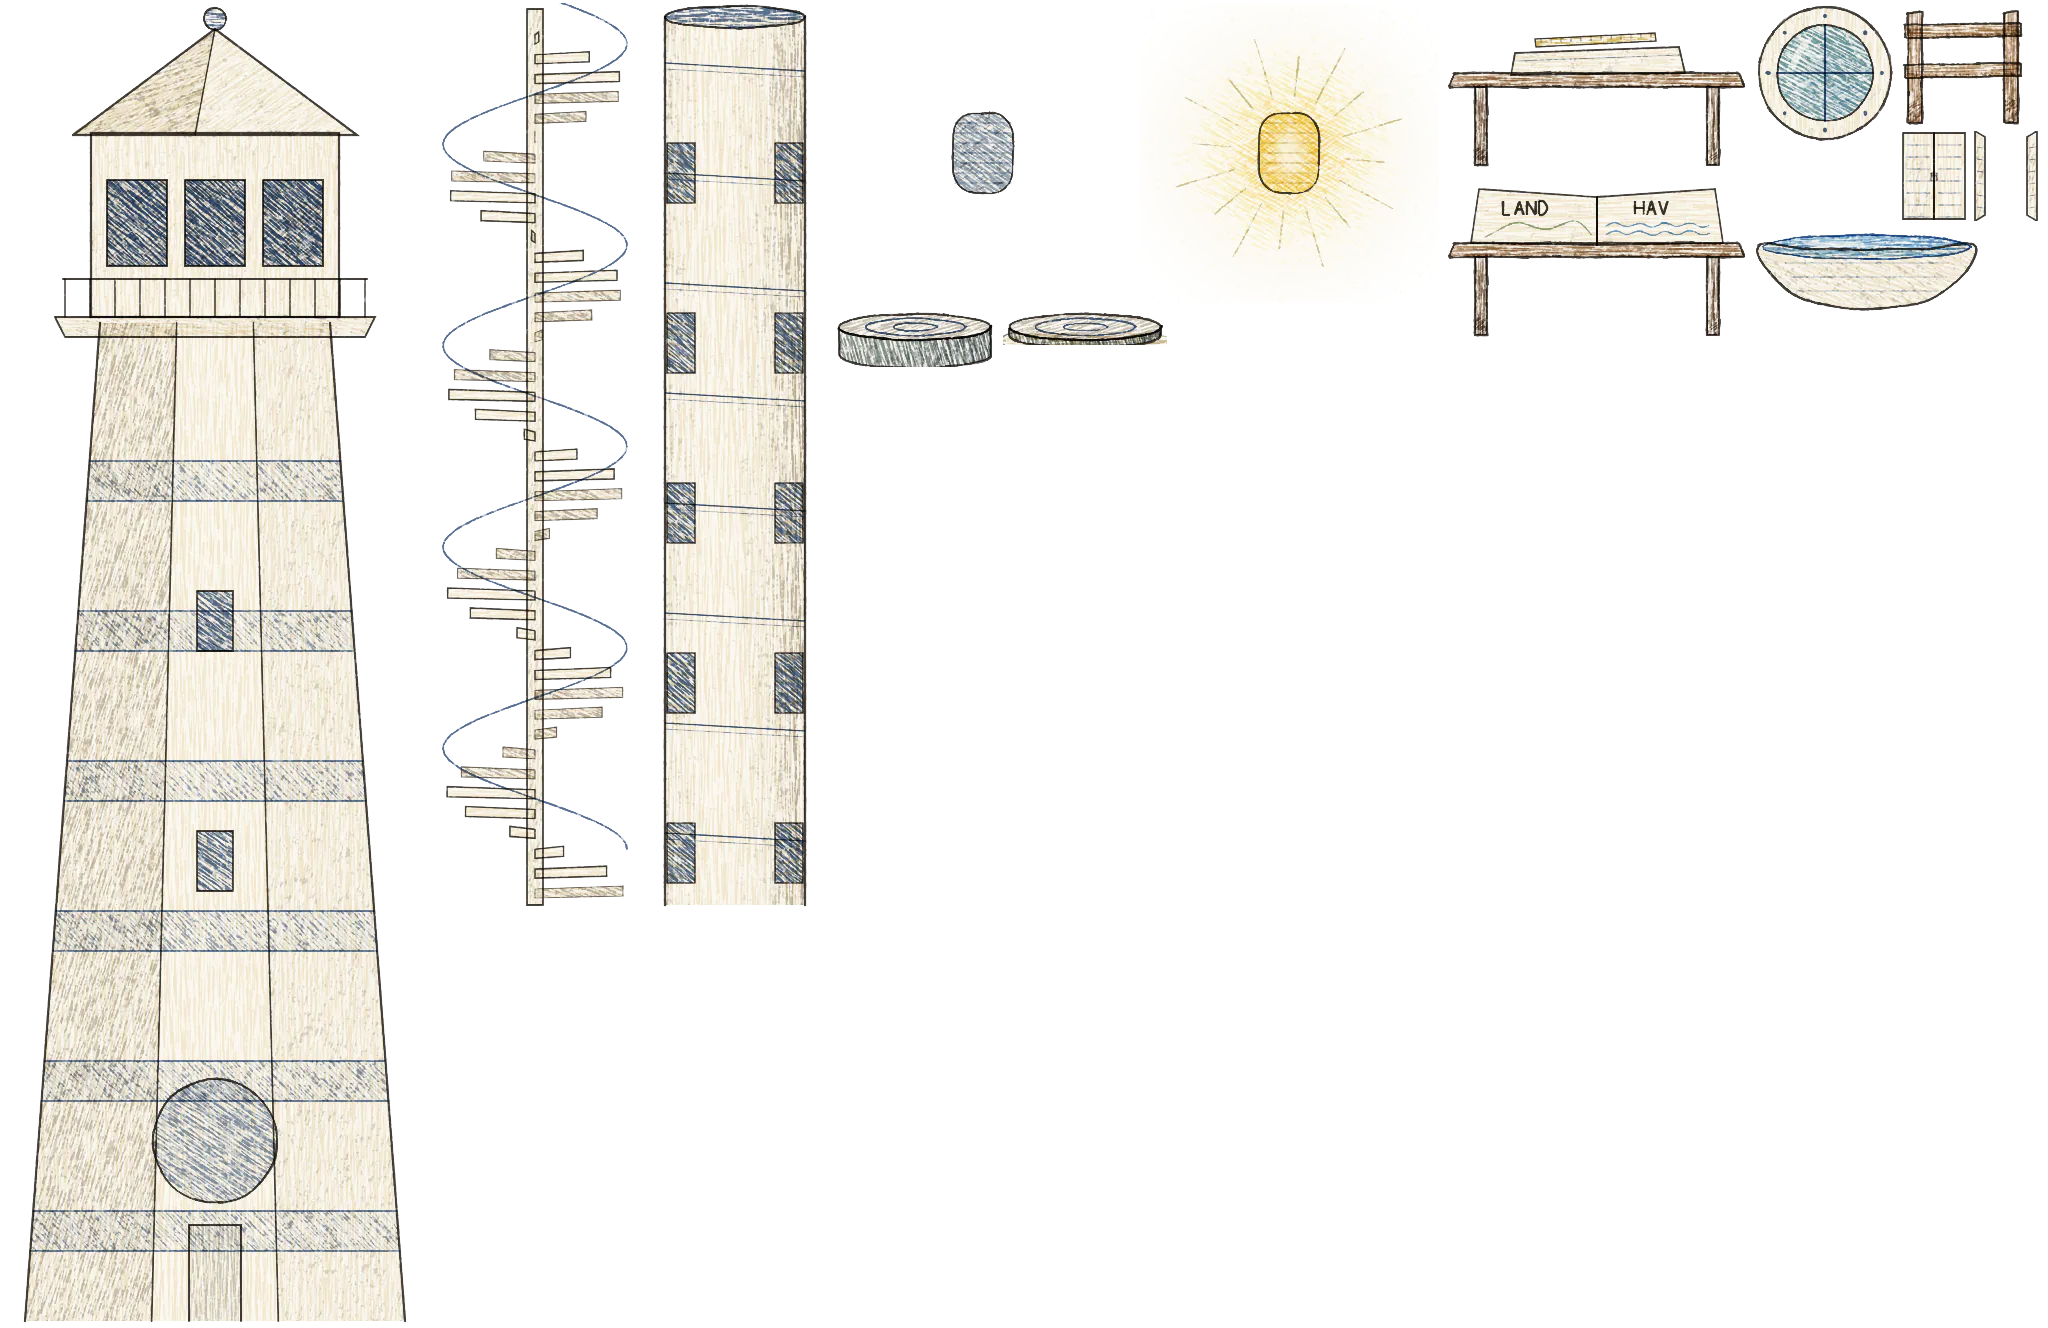
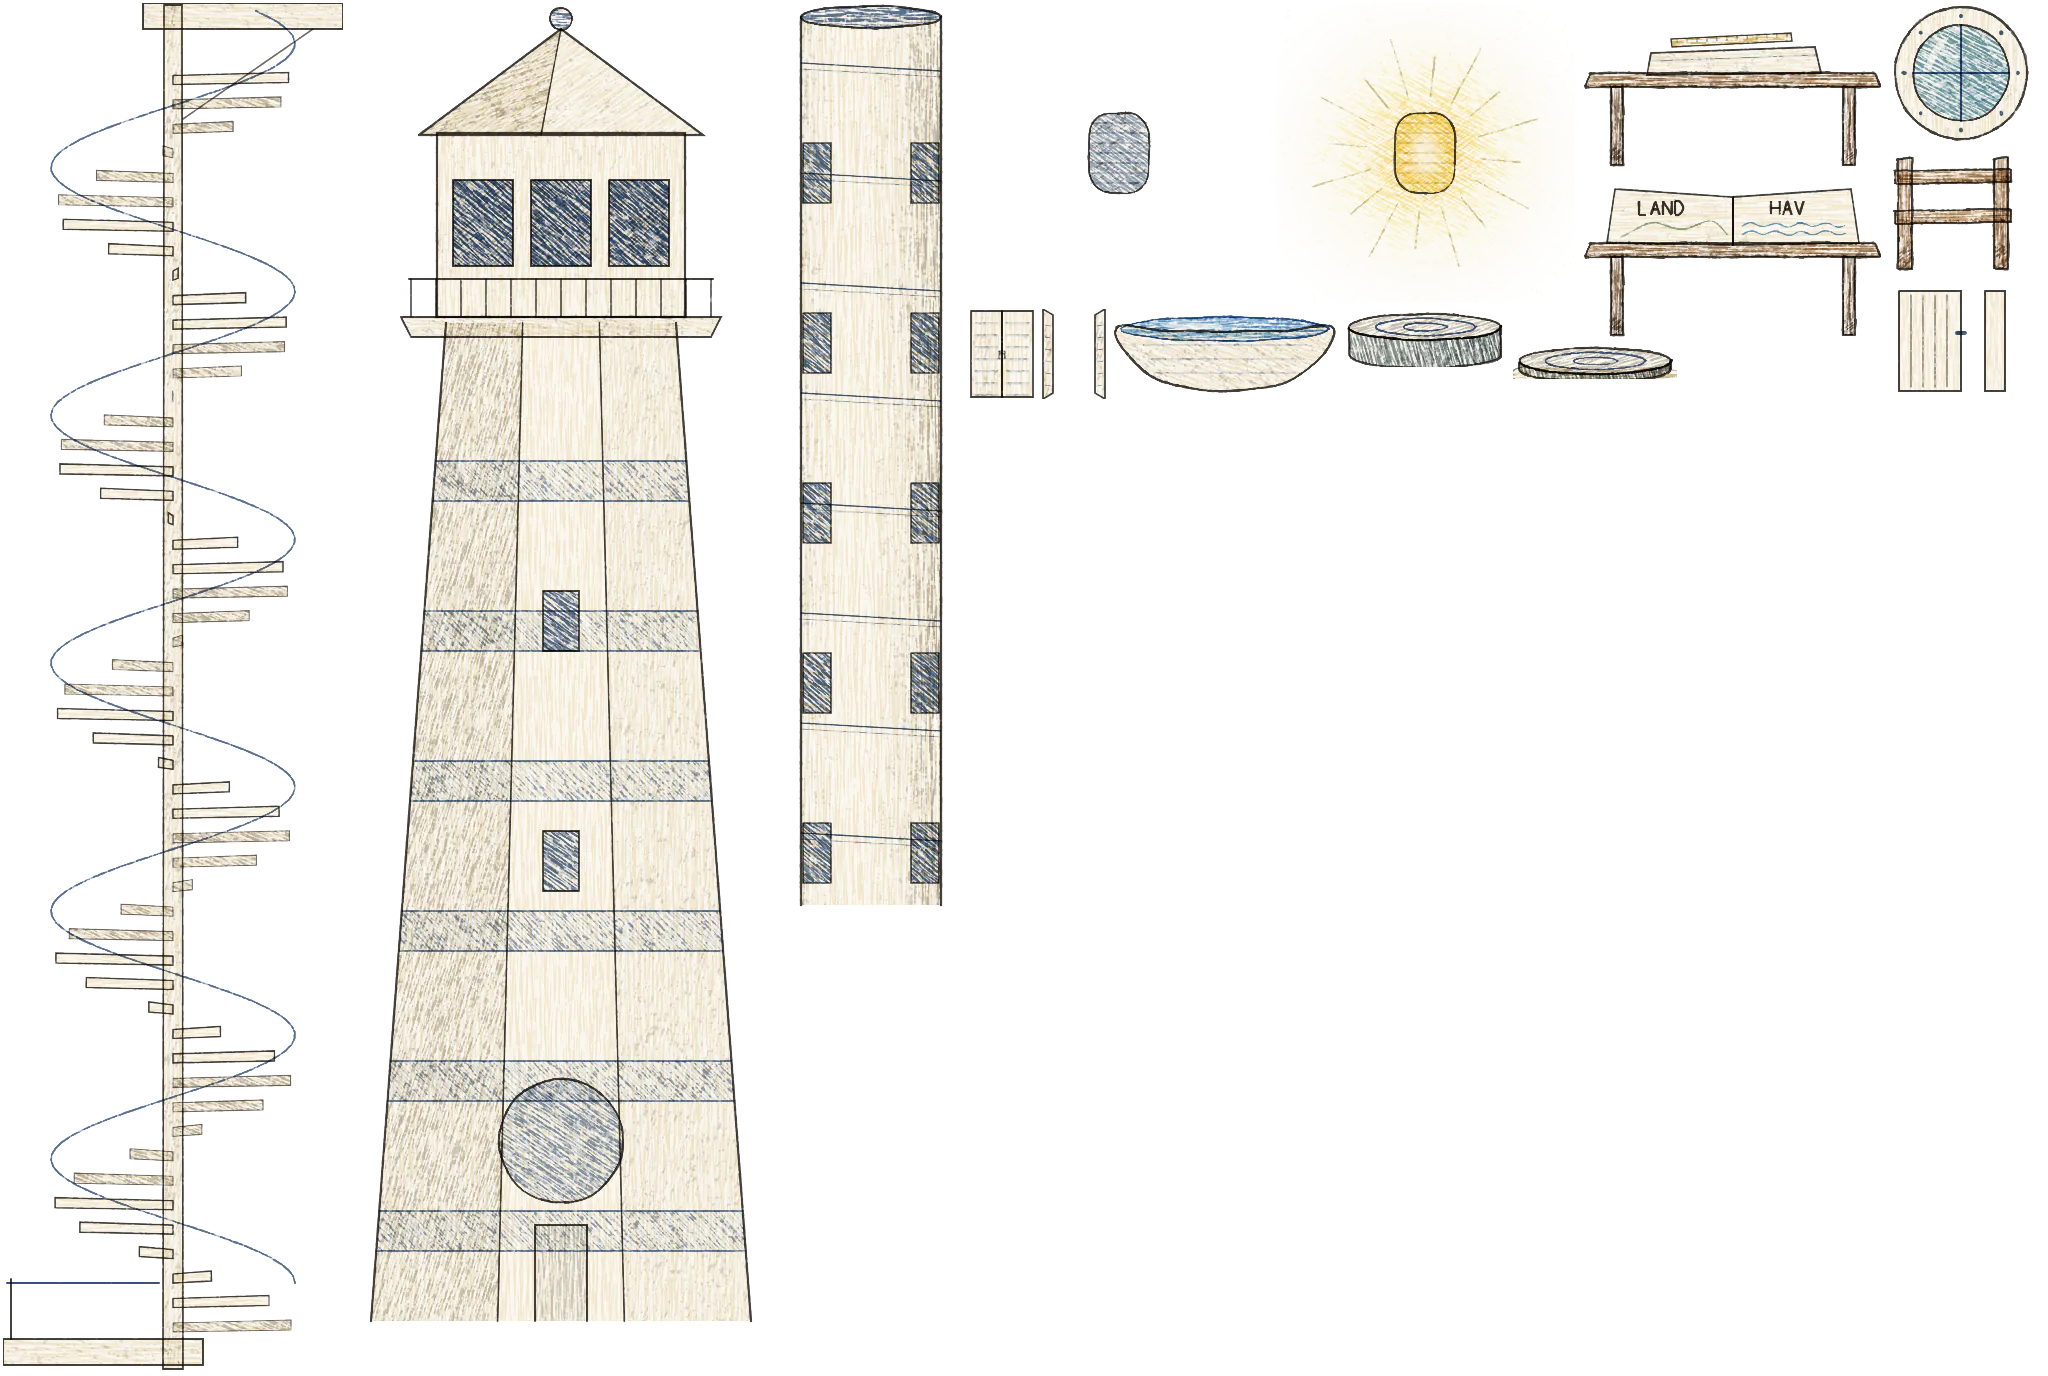
Make Mörka valvet a real arch and run the lighthouse stair full height
The spiral stair now reaches from the pier's end to the lamp gallery,
with landings, a post in the bay and a gate bolted from the stair side:
the first way up is still the pipe, and coming down opens the stair both
ways (Gå upp at the pier's end). Strömröret is drawn above the water as a
tube up into the gallery basin.

Mörka valvet is a rock arch with a solid roof (new terrain slabs), a far
wall that fades at the mouths and a darkness in its own shape that lifts
where the lyktfiskar are; once lit they hang under the roof as lamps.
The back way in is refused while dark. The lyktfiskar now wait when the
sköldhäst comes out of hiding and follow again when it hides near them;
Klo says so once. Robot routes go under and over the roof; new tests
cover the waiting school and the roof.

diff --git a/skoldhast/dev/SPEC.md b/skoldhast/dev/SPEC.md
@@ -197,8 +197,8 @@ språngkant marker: a hoof mark plus a short pencil tick, 60 wu, anchor [0.5, 1]
 
 **Kelp forest (sea):** `kelp-strip` (a single tall kelp frond as a vertical strip 96×900 px, used as a rope; the
 base at the bottom), `kelp-bed` (a dense low clump, 300 wu wide × 180 high), `kelp-float` (floating kelp at the
-surface, 160 wu, anchor centre), `seabed-rock-1`…`seabed-rock-3`, `shell-under`, `vault-mouth` (the dark
-mouth of Mörka valvet in a rock face, 500 wu wide × 420 high), `paper-flap` (a small paper flap sticking up from
+surface, 160 wu, anchor centre), `seabed-rock-1`…`seabed-rock-3`, `shell-under`, `vault-mouth` (no longer
+placed: Mörka valvet is drawn by the engine from its `slabs` roof in `world.mjs`), `paper-flap` (a small paper flap sticking up from
 the seabed, 60 wu, and `paper-flap-flat`), `paper-corner` (a folded paper corner sticking up in the vortex
 eye, 120 wu, and `paper-corner-flat`), `veckmuren` (the crease wall seen from the side: a vertical, glassy,
 ruler-straight wall with water piled up behind it, 360 wu wide × 1400 high, anchor [0.5, 1]).
@@ -209,7 +209,10 @@ lines, ~1300 wu high × 420 wide, anchor [0.5, 1]; the lamp room at the top with
 anchor centre), `window-lower` (the lighthouse's lower window under water, 140 wu, anchor centre),
 `pier-end-rail` (the rail at the end of the pier, 120 wu high), `plate-up`, `plate-down` (a round seabed
 pressure plate, 160 wu wide), `pipe` (Strömröret: a vertical paper pipe with side vents, 180 wu wide × 900
-high, anchor [0.5, 1]), `stair` (a spiral stair, 200 wu wide × 900 high, anchor [0.5, 1]), `basin` (small
+high, anchor [0.5, 1]), `stair` (the spiral stair from the pier deck to the gallery floor, 340 wu wide, its top landing's
+top edge at the anchor [0.5, 0] and its bottom landing 1336 wu below; landings reach left to the pier and
+right to the gallery), `stair-gate`, `stair-gate-open` (the gate at the stair's foot, bolted from the stair
+side, 118 wu high, anchor [0.5, 1]), `basin` (small
 basin at the top of the pipe, 220 wu wide), `map-closed`, `map-open` (Kartväktaren's map on a table: pages LAND
 and HAV, 300 wu wide).
 

diff --git a/skoldhast/HANDOVER.md b/skoldhast/HANDOVER.md
@@ -1,6 +1,27 @@
 # Sköldhästen – handover
 
-## Latest: depth, shorelines and grounding (30 September)
+## Latest: Mörka valvet and the lighthouse stair (30 September)
+
+Branch `claude/skoldhast-vault-stairs`, on `main` at `252423f`. Pappa asked whether the stairs should
+reach from the ground to the top of the lighthouse, and for a better-looking and better-working dark vault.
+
+- **The stair** now runs the whole height, from the pier's end to the lamp gallery (`stair` art redrawn,
+  1336 wu, landings at both ends, its post standing in the bay). Its gate at the foot is bolted from the
+  stair side: the way up the first time is still the pipe (P7), and walking down (`Gå ner`) opens it
+  (`stair_open`), after which `Gå upp` at the pier's end goes up. Strömröret is drawn above the water too,
+  a tube up the tower's side into the gallery basin, so riding up it reads.
+- **Mörka valvet** is a real rock arch across the trench floor (`slabs` in `world.mjs`, new in `sim.mjs`
+  `insideSolid`): a solid roof you swim under or over, a far wall that fades out at the mouths, and a
+  darkness in its own shape instead of a rectangle. The dark lifts where the lyktfiskar are; once they
+  light it they hang under the roof as a row of lamps with warm light on the wall. The back way in is
+  refused too while dark (`vault-dark-e`).
+- **The lyktfiskar** are gentler: when the sköldhäst comes out of hiding they stop and wait where they
+  are (`wait`), come back when it hides near them again, and swim home (not jump) only if it goes far
+  or leaves them 12 s. Klo says so once (`lyktWait`). They swim smoothly between places.
+- The robot's two routes through the trench now go under the lit roof and over it; two new tests cover
+  the waiting school and the roof. Pure suite **163/163**.
+
+## Depth, shorelines and grounding (30 September)
 
 Branch `claude/skoldhast-visual-depth` (from `49ade5a`), merged to `main` after the opening-notes merge. Pappa asked for the
 recommended visual improvements, in order. Details, causes and before/after pairs:
